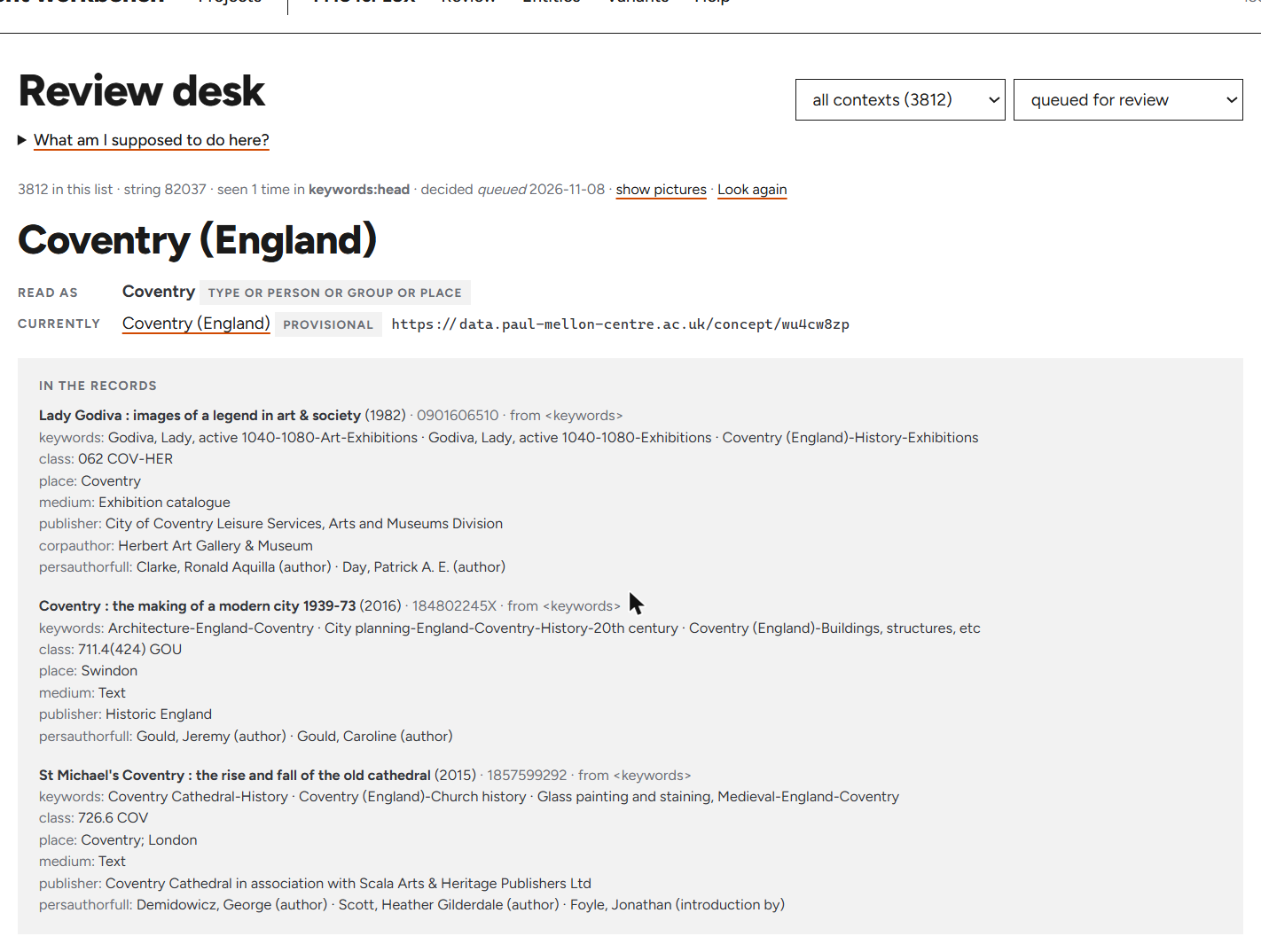
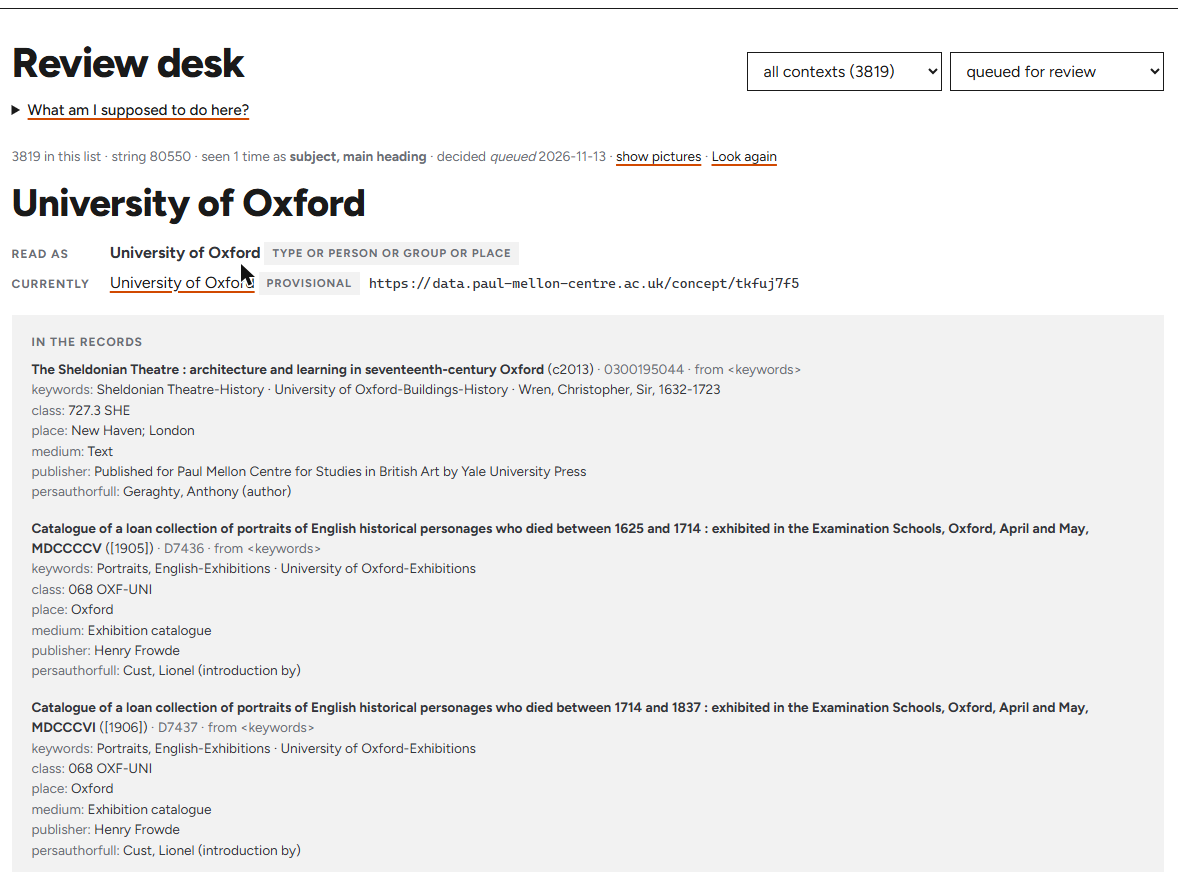
Doc 16: the holder pair's example and pictures retaken against "University of Oxford" (a group and a place holding one LoC record; the pair's box, identifiers as links, the class choice), Coventry kept as the watch-for of a group holding a record that is not the thing; the plan's item on the home pa

Changed region(s): [[0.0, 0.0, 1.0, 0.9908]]

diff --git a/docs/16-workbench-scenarios.md b/docs/16-workbench-scenarios.md
@@ -31,54 +31,43 @@ the two entities without guessing and never merges entities on its own, so the s
 recognise it by the line at the head of the first candidate group: "2 of the project's entities hold records of this
 group".
 
-**Example.** "Coventry (England)", a subject heading (`keywords:head`), string 82037, as queued by run v7aq7v;
-pictures taken 2026-11-13. http://localhost:5200/p/pmc/review?id=82037
+**Example.** "University of Oxford", the main heading of a subject (`keywords:head`), string 80550, as queued by run
+rhf5rg; pictures taken 2026-11-14. http://localhost:5200/p/pmc/review?id=80550
 
 The string and the catalogue records it was seen in:
 
-![The string Coventry (England) at the head of the desk, with three catalogue records](img/scenarios/holder-pair-1-string.png)
+![The string University of Oxford at the head of the desk, with three catalogue records](img/scenarios/holder-pair-1-string.png)
 
-The first candidate group. Six records "agree they are one thing", and two of them are the project's own: an entity
-labelled "Coventry" and another labelled "Coventry (England)". Both are places, both aligned, and both were seen in
-the same book (*St Michael's Coventry*):
+The first candidate group. Four records "agree they are one thing", and two of them are the project's own, boxed
+together under the sentence that says so. Both are called "University of Oxford". One is a group, standing for a
+corporate author; the other is a place, standing for a subject heading. Each row lists what the entity holds, every
+identifier a link that says what its record is: both hold the Library of Congress's `n79095521`.
 
-![The candidate group with the holder-pair notice and the merge button](img/scenarios/holder-pair-2-group.png)
+![The candidate group: the two project entities boxed under the notice, the merge button at the foot](img/scenarios/holder-pair-2-group.png)
 
 **Solution.**
 
-1. *Decide whether the two entities are the same thing.* Read the two rows: class, what each holds, which strings
-   each stands for, and the records each was seen in. Here both are the city of Coventry in the West Midlands: same
-   class, overlapping books, and the map puts the group in one spot. They are duplicates. If you need more, each
-   entity's name opens its page in another tab.
-2. *Press "Merge them and accept this string onto the survivor".* Nothing is merged yet. A confirm step opens:
+1. *Decide whether the two entities are the same thing.* Read the two boxed rows: class, what each holds, which
+   strings each stands for and in which fields, and the records each was seen in. Here both hold the same Library of
+   Congress record, which is the university as a body, and the books behind both are about the university and its
+   buildings. They are one thing, entered twice by an earlier import, once as a body and once as a place. If you need
+   more, each entity's name opens its page in another tab; the page begins with what the entity stands for.
+2. *Press "Merge them and accept this string onto the survivor"*, at the foot of the box. Nothing is merged yet. A
+   confirm step opens:
 
-   ![The confirm step: choose the survivor, the identifiers that will be added, Merge and accept](img/scenarios/holder-pair-3-confirm.png)
+   ![The confirm step: choose the survivor, the class, the identifiers that will be added, Merge and accept](img/scenarios/holder-pair-3-confirm.png)
 
 3. *Choose the survivor.* The other entity merges into it, and its strings, identifiers and labels follow, so
    nothing is lost either way; what you are choosing is the URI and label that remain. Prefer the one that holds
-   more and says more. Here that is "Coventry (England)": it holds the Library of Congress and Wikidata identifiers
-   and stands for two strings, where "Coventry" stands for one.
-4. *Read the line "Then N identifiers added" before confirming.* These are the group's records that neither entity
-   holds yet, and they will be attached to the survivor. Each should be the same thing as the survivor.
-5. *Press "Merge and accept"*, or "Back" to leave everything as it was. A merge is permanent: "Undo last decision"
+   more and is of the right class. Here that is the group: it holds ULAN's record as well.
+4. *When the two differ in class, choose the class.* The step says "They differ in class" and offers the choice; the
+   survivor's is the default. A university is a group.
+5. *Read the line "Then ... identifiers added" before confirming.* These are the group's records that neither entity
+   holds yet, each a link saying what it is, and they will be attached to the survivor. Each should be the same thing
+   as the survivor. Here none is added: between them the two entities already hold the group's records.
+6. *Press "Merge and accept"*, or "Back" to leave everything as it was. A merge is permanent: "Undo last decision"
    takes back the string's decision, not the merge. Afterwards the string, and the other queued strings of the same
    name, leave the queue.
-
-*For Coventry, step 4 stopped the reviewer.* When the pictures were taken, the three identifiers to be added were
-TGN's Coventry (right) and two Library of Congress records that are not the city: "Catholic Church. Diocese of
-Coventry and Lichfield" and "Church of England. Diocese of Coventry", both bodies, not places. The software had put
-them in the group because they are placed in Coventry. That was a fault, mended the same day (a body placed in a
-city no longer joins the city's group), so a card today lists only records of the place; the pictures are kept
-because they show why the line is worth reading. When a group does hold a record that is not the thing, leave the
-group's button alone and do it in two steps:
-
-1. Press "Back". On each of the two entity rows press **Tray**, then open the tray's merge page from the bar at the
-   foot of the screen, choose the survivor and merge. This merges the two entities and adds nothing else.
-2. Back at the desk, press **Look again** so the card shows the store as it now is, then **just this one** on the
-   surviving entity's row. The string is decided onto the entity without the group's other records.
-3. Add any identifier you do want on the entity's page (for Coventry, TGN's `http://vocab.getty.edu/tgn/7011012`).
-
-This is how Coventry was decided: the two entities merged through the tray, "Coventry (England)" the survivor.
 
 **Watch for.**
 
@@ -86,8 +75,13 @@ This is how Coventry was decided: the two entities merged through the tray, "Cov
   Gallery of 1877 to 1890 and the later dealer of the same name. If the two rows differ in dates, place or what they
   were seen in, do not merge; accept the string onto the right one with **just this one**. If the card shows nothing
   that tells the pair apart, that is a fault in the desk: report it.
-- *Records in the group that are not the thing*, as with Coventry's dioceses. The count "6 records agree" is the
-  software's claim, not a fact; the confirm step's list of identifiers is where you check it.
+- *Records in the group that are not the thing.* The count "4 records agree" is the software's claim, not a fact; the
+  confirm step's list of identifiers is where you check it. "Coventry (England)", the first example written here,
+  had two dioceses in its group ("Church of England. Diocese of Coventry"), and the merge would have given the city
+  their identifiers. That fault is mended (a body placed in a city no longer joins the city's group), but the habit
+  stands. When a group does hold a record that is not the thing, leave the box's button alone: put both entities in
+  the tray (**Tray** on each row), merge them on the tray's page, then back at the desk press **Look again** and
+  **just this one** on the survivor's row. That is how Coventry was decided.
 - *The same name, different identifiers.* Two entities of one name with different Wikidata or VIAF numbers may be
   duplicates the authorities also hold twice, or two different things. "Dagenham" and "Dagenham (London, England)"
   were the second kind: one held Wikidata's record for the town, the other its record for the former parliamentary
@@ -97,8 +91,9 @@ This is how Coventry was decided: the two entities merged through the tray, "Cov
   the constituency's set off in one press; then merge. Do not relabel the entity to match its wrong identifiers
   ("Dagenham (parliamentary constituency)"): an entity is what its strings mean, and this one stands for a place of
   publication, the town.
-- *Different classes.* The confirm step says so when the two entities differ in class (a person and a group, say).
-  That is usually a sign they are not duplicates.
+- *Different classes.* The confirm step says so when the two entities differ in class. A group and a place of one
+  name, holding the same record, are usually one institution entered twice, as here. A person and a group are more
+  often two things (a dealer and his firm): look before merging.
 
 ---
 
@@ -151,4 +146,4 @@ pictures taken then; the example column names one where one is known.
 
 | Scenario | Pictures taken | Shows | Stale since |
 |---|---|---|---|
-| Holder pair | 2026-11-13, before the changes of the same day | the desk's head, the first group, the confirm step | 2026-11-13: the pair's box, identifiers as links with what they are, fields in plain words. To retake |
+| Holder pair | 2026-11-14, "University of Oxford" (Coventry, the first example, being decided) | the desk's head, the first group with the pair's box, the confirm step with the class choice | current |

diff --git a/docs/00-plan.md b/docs/00-plan.md
@@ -454,6 +454,7 @@ and the log (doc 15) records that. The order within an area is rough value.
   desk's view of a part's parents and "not a compound" as the pass for one heading, below; and "Art, Baroque--Italy--ome"
   (the "R" of "Rome" missing in the catalogue) for the cataloguers' report (Exports and reports).
 - ~~Records of another class in a place's group~~ (built and measured 2026-11-13, finding 118, run q9zpqk; open only: "Northampton", the owner's to mend by hand) (2026-11-13, met writing the first scenario of doc 16: "Coventry (England)", string 82037). The first group, "6 records agree they are one thing", holds TGN's Coventry, LoC's "Coventry (England)", the project's two Coventrys, and two LoC groups, "Catholic Church. Diocese of Coventry and Lichfield (England)" (n88126694) and "Church of England. Diocese of Coventry" (nb2007002969), each "name 0.85; qualifier places it (England); placed through tgn Coventry, the inhabited place among 2". The holder pair's merge would add both dioceses' identifiers to the city (the confirm step lists them among "3 identifiers added"), and "Same as" on the group would do the same after a tray merge. Counted and built the same day as finding 118 (doc 10 7.6 "Built 2026-11-13, finding 118": 35 strings, 28 accepted by vote, the dioceses' identifiers written onto some twenty place entities by run v7aq7v; a record of another class joins only when its own name is the string's and its heading has no type word, so Balmoral Castle and the abbeys stay). Measured by run q9zpqk the same day (the method diff empty, the dioceses' identifiers gone from the place entities, the buildings' kept), doc 16's Coventry paragraph rewritten; "Northampton", confirmed by hand with a diocese and an archdeaconry among its identifiers, is the owner's to mend on its entity page.
+- The project's home page timed out (2026-11-14, the owner signing in from a second Chrome profile after a restart: Npgsql's thirty seconds, in `CountsAsync`). The count of authority records scanned the whole table, 19.4 million rows and 1.49 million pages read cold, 23 seconds warm-ish; mended the same morning by summing `authority_sources.records`, which the loaders keep (the whole query now a second). Left: `authority_records` was last vacuumed on 2026-10-18 and carries 2.26 million dead rows (the Wikidata load and the pulls), so nothing on it can use an index-only scan; a `vacuum (analyze) authority_records` is owed, through an Align command if there is none, with the workbench stopped. And any other page that counts or scans that table whole is to be looked for.
 - ~~A field's name in plain words~~ (built 2026-11-13: `Label` and `About` on a context in the manifest, `ProjectManifest.FieldName` and `FieldAbout`; the PMC labels and sentences are the assistant's reading of the export's field names and of the records, the cataloguers' to correct; the desk's head, its rows and placeholders, the entity page's panel, records, waiting list and strings table say the label, the field's own name on hover; a label is not a reading, and `Differences` says "named or described differently"; the saved manifest refreshed with `manifest --use-default`. The context dropdown and the lists keep the fields' own names) (2026-11-13, with the panel at the head of the entity page, "This entity stands for 1 string ... in the field place": `place` is the place of publication, `corpauthor` a corporate author, `keywords:sub` a subdivision of a subject heading, and the page can only print the context's own name). The manifest gives each context a label and a sentence ("place of publication"), and the desk, the entity page and the lists use it wherever a context is named to a reviewer. The same panel on the desk's project-entity rows, which say "stands for 1 string in place", follows from it.
 - ~~What an identifier is, on the entity page, and a VIAF or LUX identifier said through the record that cites it~~ (built 2026-11-13: `IdentifierSets`, the entity's identifiers gathered into sets that cite one another through `sameAs`, the Wikidata extract's `ids` and a pull's "same as" facts, or cite a common third; the entity page boxes each set under what it is with "Remove all N", each row says what its record is (`RecordSummary.Says`), a VIAF number "the viaf identifier that wikidata's Q3403624 gives (...)", and an identifier nothing describes says so and points at the pull; on the desk a held identifier without a record says "given by wikidata's Q...". Not built: a lookup of the whole extract for a VIAF number no held record gives, which wants an index on `data->'ids'`; a LUX identifier joins a set only once pulled) (2026-11-13, the owner at the bare "Dagenham", `place/hvj4jgry`, meaning to remove the constituency's identifiers there: "it's hard to tell what the VIAF one actually is when you go to it on VIAF.org"). The entity page's identifier table shows a record's label and dates only, so the two Wikidata rows of the Dagenhams both read "Dagenham"; it should say what the desk now says (`RecordSummary.Says`). VIAF and LUX identifiers have no record in the store, but the Wikidata extract's records carry `ids` (`"viaf": "143706493"` on Q3403624): a VIAF identifier an entity holds can be described as "the VIAF number Wikidata's Q3403624 gives (Dagenham: Parliamentary constituency ...)", first from the entity's own Wikidata identifiers, then by a lookup of the extract; and identifiers that came as one set (a Wikidata item, its VIAF, the LUX record of the same import) could be offered for removal together. Desk and entity page both.
 - ~~What a held identifier is, said where a merge is confirmed~~ (the rule question built the same evening as finding 119, doc 10 7.6: the count, 10 of 63, and the bare entity aligned elsewhere not joined; measured by the next reconcile) (built 2026-11-13: on the desk every held identifier, in the confirm step, the holder-pair notice and a project entity's row, is a link to its record followed by what the record is when the store holds it, `RecordSummary.Says`: the label and the Wikidata description, a pull's, or TGN's first two parents, "wikidata's Q3403624 (Dagenham: Parliamentary constituency in the United Kingdom, 1945-2010)"; a row lists the entity's other identifiers after those of the group; VIAF and LUX identifiers, with no record in the store, are links only. Open: the rule question at the end, with its count) (2026-11-13, the owner at "Dagenham (London, England)", string 119335: "how does this come about where the two Dagenhams have different VIAF identifiers?"). The import had two entities: "Dagenham (London, England)" holding Wikidata's Q1075299, "Town in east London, England", and a bare "Dagenham" holding Q3403624, "Parliamentary constituency in the United Kingdom, 1945-2010", the earlier pipeline's alignment of a place of publication. The bare one joined the placed group as "the project's one Dagenham" and the desk offered the pair. The confirm step and the entity rows list identifiers as numbers only; the Wikidata extract's description (in `authority_records.data`) and each held record's label, shown beside the identifier, would have said the two differ before the merge. Also to consider: a project entity whose Wikidata record's `instanceOf` is not the kind the group's records are (a constituency against an inhabited place) should not join as "the project's one". Count first: the bare entities joined by that rule whose held Wikidata description differs in kind from the group's.
